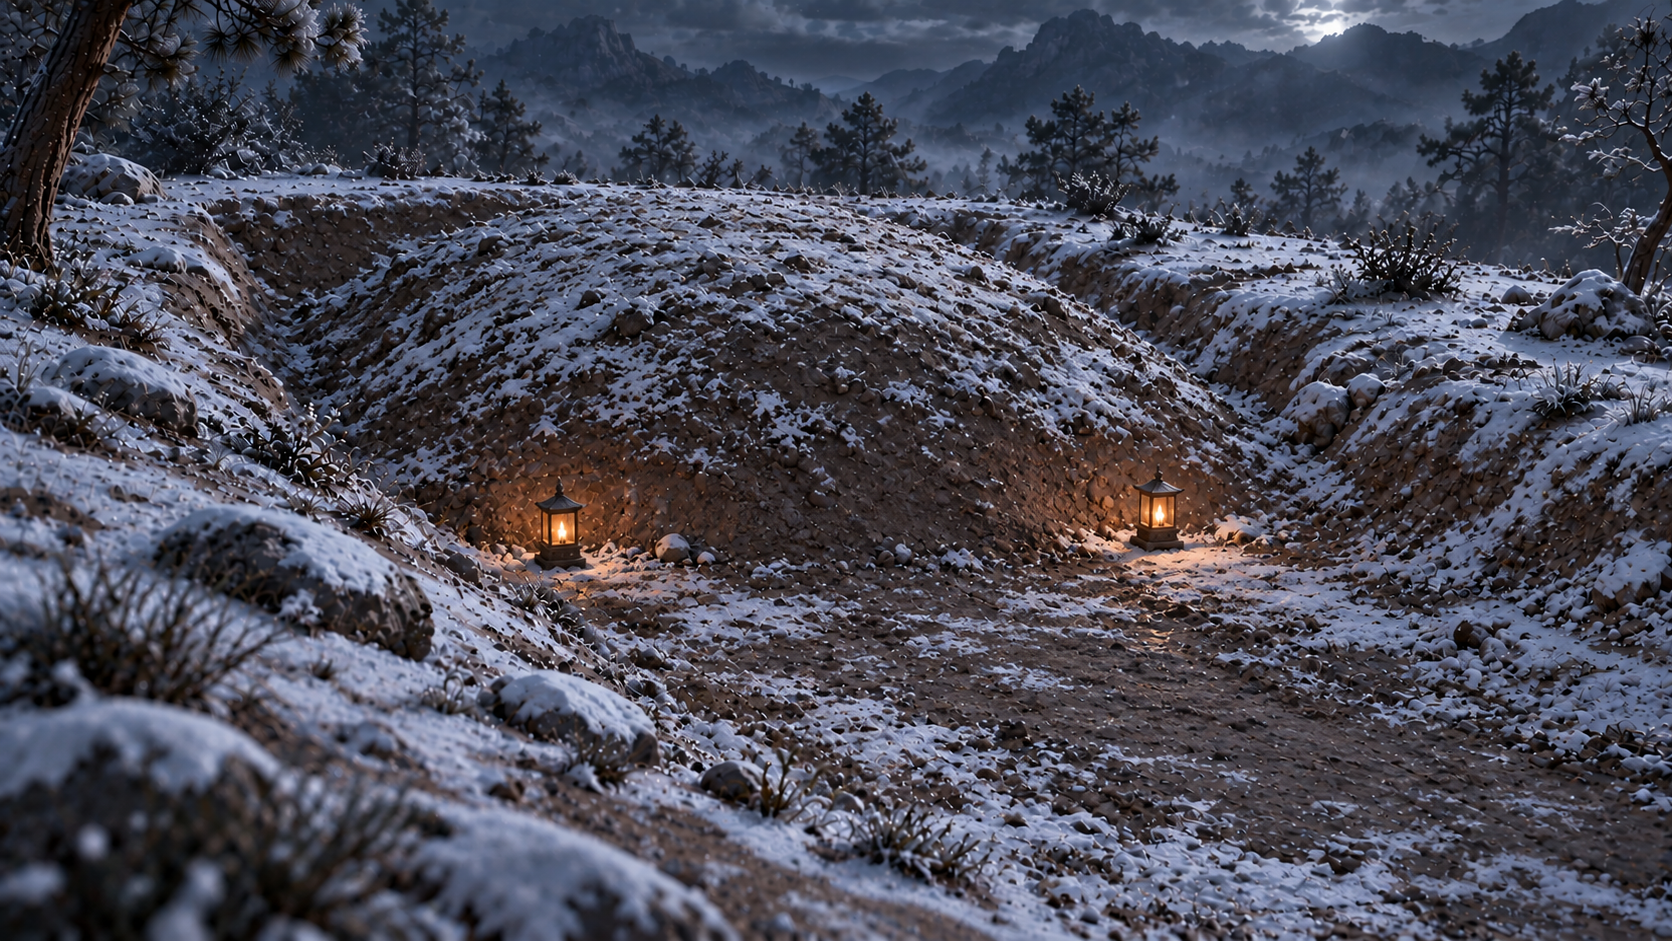
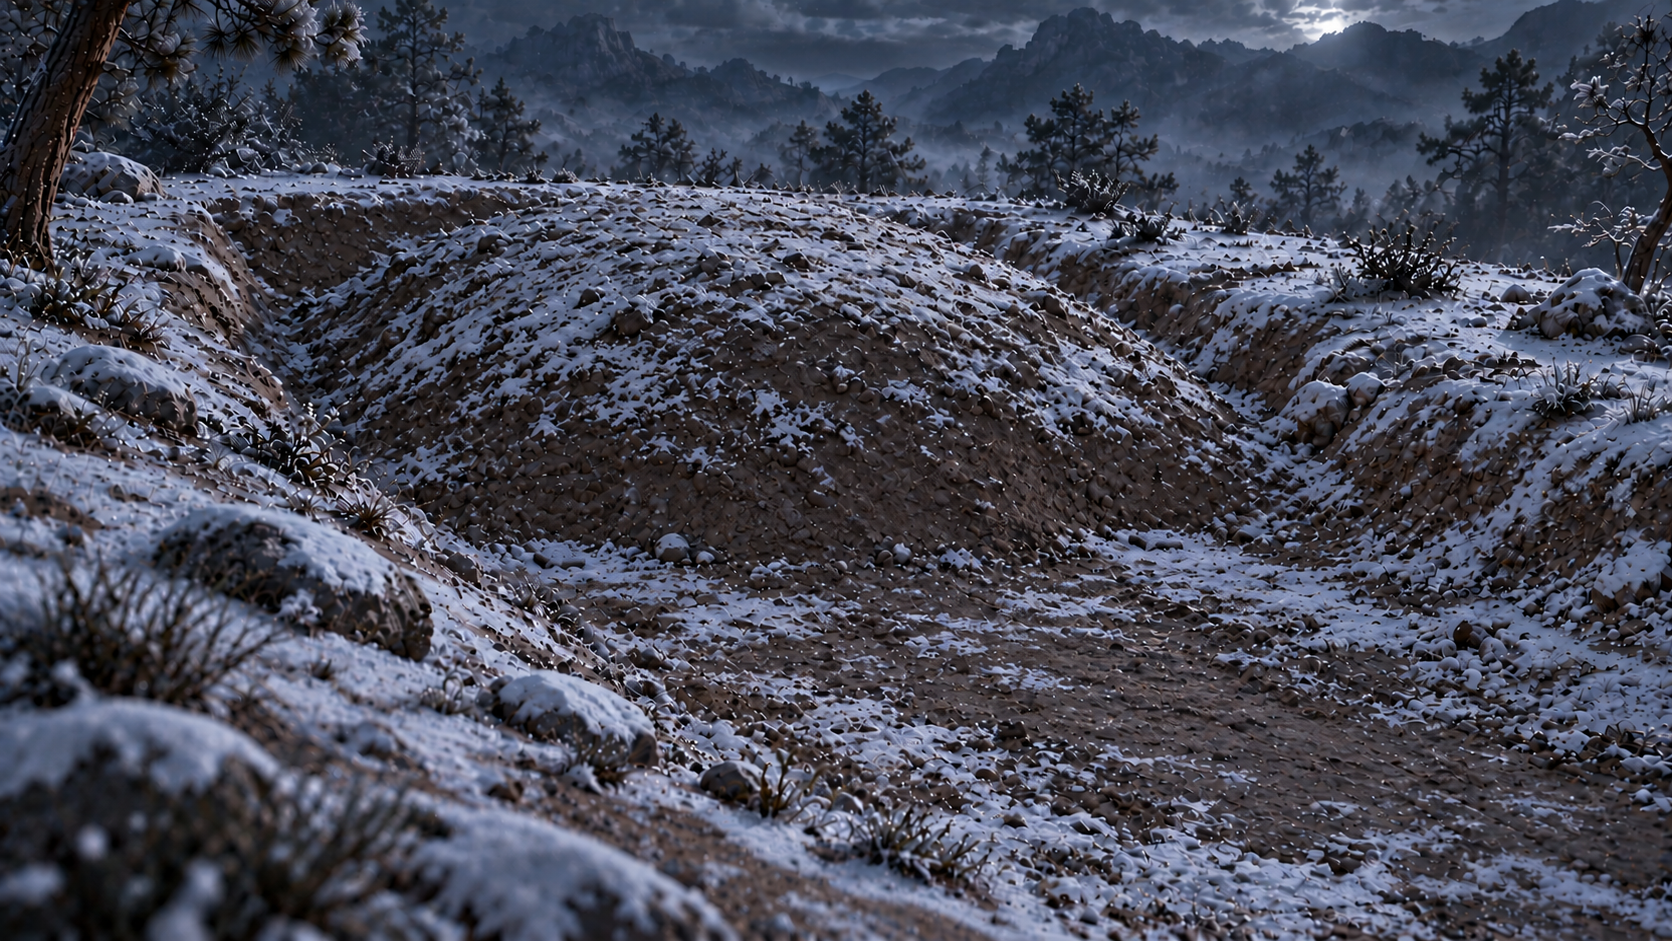
以无灯版替换三张原封土场景

diff --git a/场景/皇陵/制作记录.md b/场景/皇陵/制作记录.md
@@ -31,3 +31,7 @@
 ## 已封土去灯修订
 
 用户要求移除所有已封土图中的灯。02、04、06分别制作无灯版，存放于“无灯版”目录；灯体、底座和橙色局部光已移除，保留蓝灰雪夜光。后续封土镜头以无灯版作为最新候选；旧有灯图保留用于版本追溯，不再作为当前方向。未封土图未修改。
+
+## 替换为当前封土版本
+
+按用户要求，待验收目录02、04、06已用无灯版替换，沿用原文件名。旧有灯图不再保留于当前目录，可通过Git历史追溯；无灯版子目录仍保留同内容的明确命名副本。后续使用封土场景不得再添加灯具。
